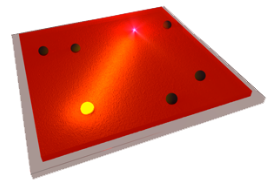
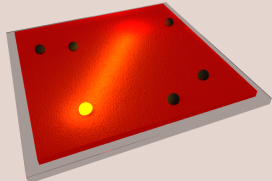
add picture for prl2016

diff --git a/_projects/prl2016.md b/_projects/prl2016.md
@@ -7,6 +7,15 @@ importance: 6
 related_publications: true
 ---
 
+<div class="row">
+    <div class="col-sm mt-3 mt-md-0">
+        {% include figure.liquid loading="eager" path="assets/img/highlights/prl2016_highres.jpg" class="img-fluid rounded z-depth-1" %}
+    </div>
+</div>
+<div class="caption">
+Artistic representation of a transfer of energy between a donor (yellow bead) and acceptors (red layer). The range of energy transfer is extended by the presence of a silver mirror. 
+</div>
+
 <p align="justify"> 
 Energy transfer between molecules is a basic process, observed in many fields spanning from biology to physics. For example, photosynthetic organisms feature efficient intermolecular energy transfer, occurring from donor molecules (light harvesting complexes) to acceptor molecules (reaction centers). However, this process is always limited to a very short range in free space, typically on the order of a few nanometers.
 </p>
